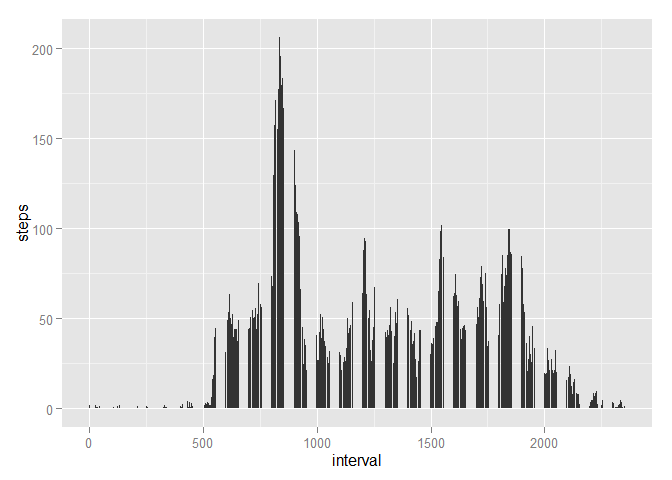
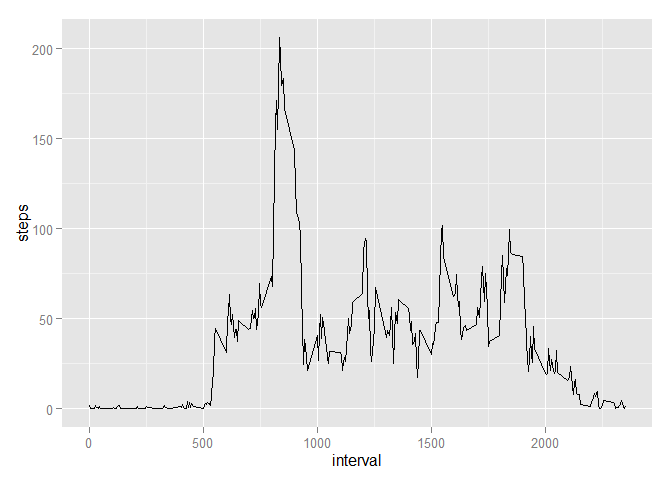
All materials. Sufficient for submission.

Changed region(s): [[0.25, 0.125, 0.9375, 0.875], [0.7812, 0.9062, 0.8438, 0.9375]]

diff --git a/PA1_template.html b/PA1_template.html
@@ -106,9 +106,9 @@ mean(steps_per_day$steps)</code></pre>
 <pre class="r"><code>mean_per_interval &lt;- aggregate(steps ~ interval, act, mean, na.rm = T)</code></pre>
 <p>Then we make a histogram showing off the interval data.</p>
 <pre class="r"><code>ggplot(mean_per_interval, aes(x = interval, y = steps)) + 
-    geom_histogram(bindwidth = 1, stat = &quot;identity&quot;)</code></pre>
[1 lines of base64/hex data omitted]
-<p>Final we note which of the intervals had the largest average number of steps.</p>
+    geom_line()</code></pre>
[1 lines of base64/hex data omitted]
+<p>Finally we note which of the intervals had the largest average number of steps.</p>
 <pre class="r"><code># sort largest to smallest, return just the first (largest) result
 arrange(mean_per_interval, desc(steps))[1,]</code></pre>
 <pre><code>##   interval    steps
@@ -134,13 +134,64 @@ arrange(mean_per_interval, desc(steps))[1,]</code></pre>
 ##  3rd Qu.:2012-11-15 00:00:00  
 ##  Max.   :2012-11-30 00:00:00  
 ## </code></pre>
-<p>Replace any NAs with the median for the given day.</p>
+<p>Replace any NAs with the mean of its interval.</p>
+<pre class="r"><code># first we define a function to replace NAs with their interval means
+impute_means &lt;- function(act, mean_per_interval) {
+    # for each interval in our mean_per_interval collection...
+    for(index in 1:nrow(mean_per_interval)) {
+        # find which rows in our primary data match the interval AND are NA
+        na_indices &lt;- which(act$interval == mean_per_interval$interval[[index]] &amp;
+                                is.na(act$steps)
+        )
+        # get the mean of the current interval
+        subset_mean &lt;- mean_per_interval$steps[[index]]
+        
+        # replace the NAs in the primary data for that interval with
+        # the interval mean
+        act$steps &lt;- replace(act$steps, na_indices, subset_mean)
+    }
+    
+    # return the new dataset
+    return(act)
+}
+
+# then we call the function to get the data set with imputed values
+act_imputed &lt;- impute_means(act, mean_per_interval)</code></pre>
 <p>Show the updated mean and median per day, along with the updated histogram.</p>
+<pre class="r"><code># first we aggregate the steps by day again...
+imputed_steps_per_day &lt;- aggregate(steps ~ date, act_imputed, sum)
+
+# now we report the mean...
+mean(imputed_steps_per_day$steps)</code></pre>
+<pre><code>## [1] 10766.19</code></pre>
+<pre class="r"><code># and the median...
+median(imputed_steps_per_day$steps)</code></pre>
+<pre><code>## [1] 10766.19</code></pre>
+<pre class="r"><code># and the histogram...
+ggplot(act_imputed, aes(x = date_as_date, y = steps)) + 
+    geom_histogram(stat = &quot;identity&quot;)</code></pre>
[1 lines of base64/hex data omitted]
+<p>The histogram is nicely more filled in than before imputing but the overall mean and average changed little.</p>
 </div>
 <div id="are-there-differences-in-activity-patterns-between-weekdays-and-weekends" class="section level2">
 <h2>Are there differences in activity patterns between weekdays and weekends?</h2>
 <p>Add a new factor specifying weekdays and weekends.</p>
+<pre class="r"><code># if the weekday is equivalent to Saturday or Sunday...
+act_imputed$day_type &lt;- ifelse(weekdays(act_imputed$date_as_date) == &quot;Saturday&quot; | 
+                                   weekdays(act_imputed$date_as_date) == &quot;Sunday&quot;, 
+                               # call it a weekend
+                               &quot;Weekend&quot;, 
+                               # otherwise call it a weekday
+                               &quot;Weekday&quot;)</code></pre>
+<p>Then we need to get the average steps by interval + day type.</p>
+<pre class="r"><code>mean_per_interval_day &lt;- aggregate(steps ~ interval + day_type, 
+                                   act_imputed, 
+                                   mean)</code></pre>
 <p>Contrast weekdays and weekends via plot.</p>
+<pre class="r"><code>ggplot(mean_per_interval_day, aes(x = interval, y = steps)) + 
+    geom_line() +
+    facet_wrap(~day_type)</code></pre>
[1 lines of base64/hex data omitted]
 </div>
 
 

diff --git a/PA1_template.md b/PA1_template.md
@@ -96,12 +96,12 @@ Then we make a histogram showing off the interval data.
 
 ```r
 ggplot(mean_per_interval, aes(x = interval, y = steps)) + 
-    geom_histogram(bindwidth = 1, stat = "identity")
+    geom_line()
 ```
 
 ![](PA1_template_files/figure-html/hist_interval-1.png) 
 
-Final we note which of the intervals had the largest average number of steps.
+Finally we note which of the intervals had the largest average number of steps.
 
 ```r
 # sort largest to smallest, return just the first (largest) result
@@ -139,12 +139,95 @@ summary(act)
 ## 
 ```
 
-Replace any NAs with the median for the given day.
+Replace any NAs with the mean of its interval.
 
+```r
+# first we define a function to replace NAs with their interval means
+impute_means <- function(act, mean_per_interval) {
+    # for each interval in our mean_per_interval collection...
+    for(index in 1:nrow(mean_per_interval)) {
+        # find which rows in our primary data match the interval AND are NA
+        na_indices <- which(act$interval == mean_per_interval$interval[[index]] &
+                                is.na(act$steps)
+        )
+        # get the mean of the current interval
+        subset_mean <- mean_per_interval$steps[[index]]
+        
+        # replace the NAs in the primary data for that interval with
+        # the interval mean
+        act$steps <- replace(act$steps, na_indices, subset_mean)
+    }
+    
+    # return the new dataset
+    return(act)
+}
+
+# then we call the function to get the data set with imputed values
+act_imputed <- impute_means(act, mean_per_interval)
+```
 
 Show the updated mean and median per day, along with the updated histogram.
+
+```r
+# first we aggregate the steps by day again...
+imputed_steps_per_day <- aggregate(steps ~ date, act_imputed, sum)
+
+# now we report the mean...
+mean(imputed_steps_per_day$steps)
+```
+
+```
+## [1] 10766.19
+```
+
+```r
+# and the median...
+median(imputed_steps_per_day$steps)
+```
+
+```
+## [1] 10766.19
+```
+
+```r
+# and the histogram...
+ggplot(act_imputed, aes(x = date_as_date, y = steps)) + 
+    geom_histogram(stat = "identity")
+```
+
+![](PA1_template_files/figure-html/new_steps-1.png) 
+
+The histogram is nicely more filled in than before imputing but the overall
+mean and average changed little.
 
 ## Are there differences in activity patterns between weekdays and weekends?
 Add a new factor specifying weekdays and weekends.
 
+```r
+# if the weekday is equivalent to Saturday or Sunday...
+act_imputed$day_type <- ifelse(weekdays(act_imputed$date_as_date) == "Saturday" | 
+                                   weekdays(act_imputed$date_as_date) == "Sunday", 
+                               # call it a weekend
+                               "Weekend", 
+                               # otherwise call it a weekday
+                               "Weekday")
+```
+
+Then we need to get the average steps by interval + day type.
+
+```r
+mean_per_interval_day <- aggregate(steps ~ interval + day_type, 
+                                   act_imputed, 
+                                   mean)
+```
+
+
 Contrast weekdays and weekends via plot.
+
+```r
+ggplot(mean_per_interval_day, aes(x = interval, y = steps)) + 
+    geom_line() +
+    facet_wrap(~day_type)
+```
+
+![](PA1_template_files/figure-html/daytype_plot-1.png) 
